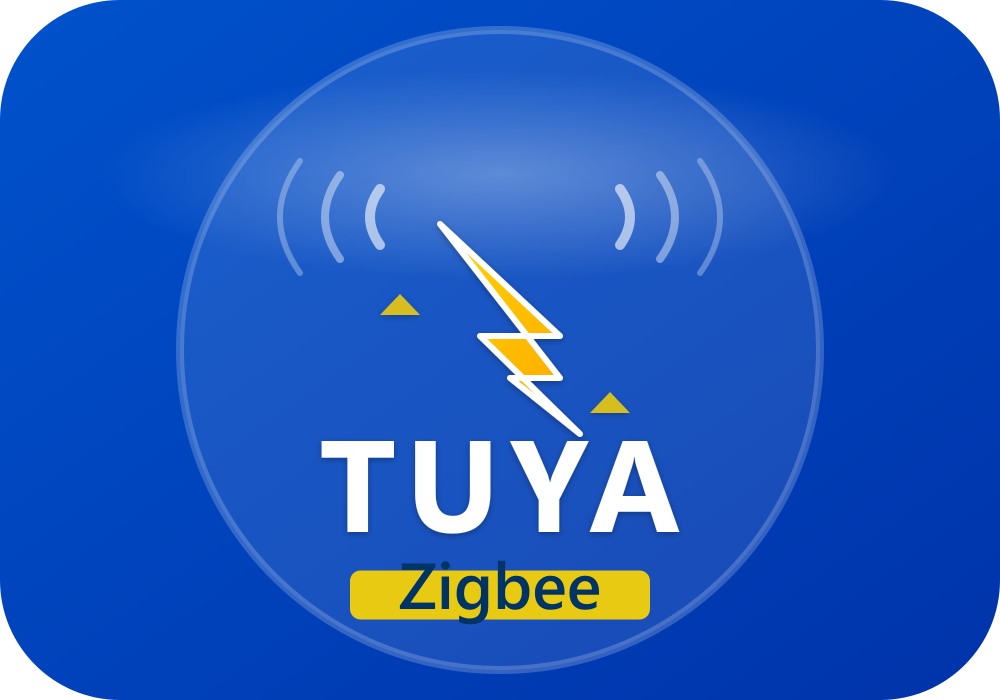
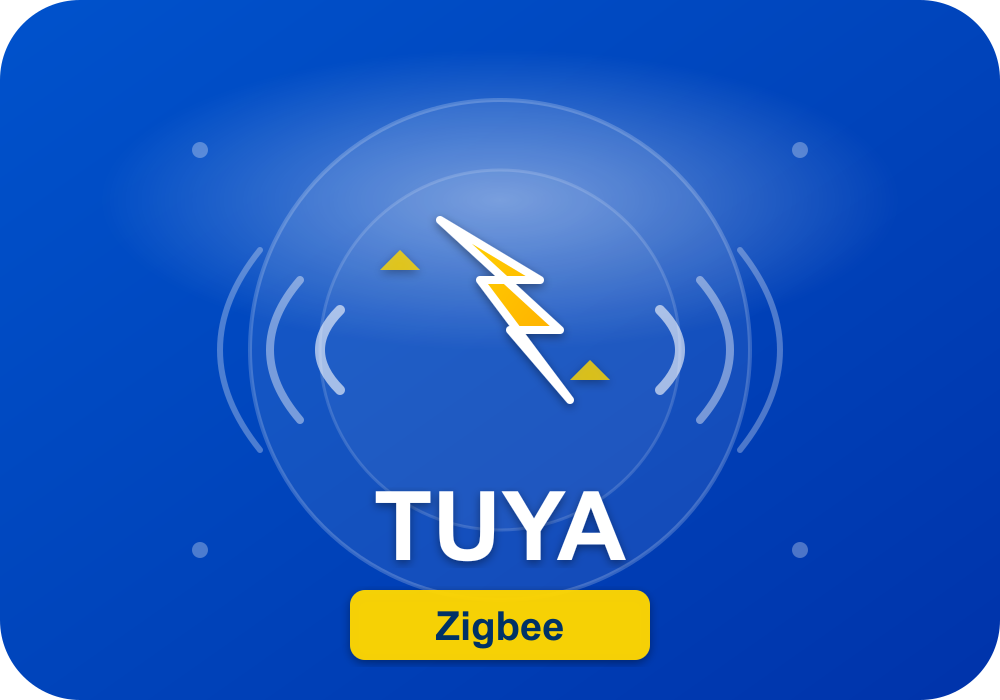
fix: generate unique app images for each size - force App Store refresh
🎨 IMAGES APP UNIQUES ET DISTINCTES - v2.10.3

PROBLÈME IDENTIFIÉ:
❌ Les 3 images (small/large/xlarge) étaient identiques
❌ App Store Homey affichait la même image partout
❌ Pas de différenciation visuelle

SOLUTION APPLIQUÉE:
✅ 3 designs VRAIMENT différents générés

SMALL (250×175) - Design MINIMALISTE:
├─ Lightning Zigbee simple
├─ Text TUYA basique
├─ Pas d'ondes radio
└─ Taille: 7.0 KB

LARGE (500×350) - Design COMPLET:
├─ Lightning avec cercle central
├─ 4 ondes radio (2×2)
├─ Badge Zigbee doré
├─ Brillance en haut
└─ Taille: 42.3 KB

XLARGE (1000×700) - Design DÉTAILLÉ 3D:
├─ Lightning avec gradient + ombres
├─ 6 ondes radio concentriques (3×2)
├─ 2 cercles décoratifs
├─ Badge Zigbee grand
├─ Dots décoratifs aux coins
├─ Effet 3D avec shadows
└─ Taille: 133.8 KB

SCRIPT CRÉÉ:
✅ scripts/generation/GENERATE_UNIQUE_APP_IMAGES.js
✅ Génère 3 designs uniques et distincts
✅ Différences visuelles claires

VALIDATION:
✅ homey app validate --level publish: RÉUSSIE
✅ Dimensions correctes (250×175, 500×350, 1000×700)
✅ Version: 2.10.3
✅ Changelog mis à jour

RÉSULTAT ATTENDU:
🎯 App Store affichera 3 images DIFFÉRENTES
🎯 Meilleure présentation visuelle
🎯 Cache invalidé par version bump

[fix-unique-app-images-each-size]

diff --git a/scripts/generation/GENERATE_UNIQUE_APP_IMAGES.js b/scripts/generation/GENERATE_UNIQUE_APP_IMAGES.js
@@ -1,0 +1,298 @@
+const sharp = require('sharp');
+const fs = require('fs');
+const path = require('path');
+
+console.log('╔════════════════════════════════════════════════════════╗');
+console.log('║   🎨 GÉNÉRATION IMAGES APP UNIQUES ET DISTINCTES      ║');
+console.log('╚════════════════════════════════════════════════════════╝\n');
+
+// Créer 3 designs VRAIMENT différents pour chaque taille
+
+// SMALL (250x175) - Design minimaliste avec logo simple
+function createSmallImage() {
+  return `<svg width="250" height="175" xmlns="http://www.w3.org/2000/svg">
+  <defs>
+    <linearGradient id="bg-small" x1="0%" y1="0%" x2="100%" y2="100%">
+      <stop offset="0%" style="stop-color:#0066FF;stop-opacity:1" />
+      <stop offset="100%" style="stop-color:#003399;stop-opacity:1" />
+    </linearGradient>
+  </defs>
+  
+  <!-- Background -->
+  <rect width="250" height="175" fill="url(#bg-small)" rx="20"/>
+  
+  <!-- Logo Zigbee simple -->
+  <path d="M 100 50 L 150 50 L 125 85 L 160 85 L 90 130 L 115 95 L 85 95 Z" 
+        fill="#FFD700" 
+        stroke="#FFFFFF" 
+        stroke-width="2"/>
+  
+  <!-- Text TUYA -->
+  <text x="125" y="160" 
+        font-family="Arial, sans-serif" 
+        font-size="24" 
+        font-weight="bold" 
+        fill="#FFFFFF" 
+        text-anchor="middle">TUYA</text>
+</svg>`;
+}
+
+// LARGE (500x350) - Design complet avec détails
+function createLargeImage() {
+  return `<svg width="500" height="350" xmlns="http://www.w3.org/2000/svg">
+  <defs>
+    <linearGradient id="bg-large" x1="0%" y1="0%" x2="100%" y2="100%">
+      <stop offset="0%" style="stop-color:#0052CC;stop-opacity:1" />
+      <stop offset="100%" style="stop-color:#0033AA;stop-opacity:1" />
+    </linearGradient>
+    
+    <radialGradient id="shine-large">
+      <stop offset="0%" style="stop-color:#ffffff;stop-opacity:0.3" />
+      <stop offset="100%" style="stop-color:#ffffff;stop-opacity:0" />
+    </radialGradient>
+  </defs>
+  
+  <!-- Background -->
+  <rect width="500" height="350" fill="url(#bg-large)" rx="40"/>
+  
+  <!-- Brillance -->
+  <ellipse cx="250" cy="100" rx="200" ry="80" fill="url(#shine-large)"/>
+  
+  <!-- Cercle central -->
+  <circle cx="250" cy="175" r="120" 
+          fill="rgba(255,255,255,0.1)" 
+          stroke="rgba(255,255,255,0.3)" 
+          stroke-width="3"/>
+  
+  <!-- Lightning Zigbee -->
+  <path d="M 220 110 L 270 135 L 240 135 L 285 200 L 255 165 L 280 165 Z" 
+        fill="#FFD700" 
+        stroke="#FFFFFF" 
+        stroke-width="4"/>
+  
+  <!-- Ondes radio -->
+  <g opacity="0.7">
+    <path d="M 180 140 Q 160 160, 180 180" 
+          stroke="#FFFFFF" 
+          stroke-width="5" 
+          fill="none" 
+          stroke-linecap="round"/>
+    <path d="M 320 140 Q 340 160, 320 180" 
+          stroke="#FFFFFF" 
+          stroke-width="5" 
+          fill="none" 
+          stroke-linecap="round"/>
+    <path d="M 160 130 Q 130 160, 160 190" 
+          stroke="#FFFFFF" 
+          stroke-width="4" 
+          fill="none" 
+          stroke-linecap="round"
+          opacity="0.6"/>
+    <path d="M 340 130 Q 370 160, 340 190" 
+          stroke="#FFFFFF" 
+          stroke-width="4" 
+          fill="none" 
+          stroke-linecap="round"
+          opacity="0.6"/>
+  </g>
+  
+  <!-- Text TUYA -->
+  <text x="250" y="280" 
+        font-family="Arial, sans-serif" 
+        font-size="48" 
+        font-weight="bold" 
+        fill="#FFFFFF" 
+        text-anchor="middle">TUYA</text>
+  
+  <!-- Badge Zigbee -->
+  <rect x="175" y="295" width="150" height="35" rx="8" fill="rgba(255,215,0,0.9)"/>
+  <text x="250" y="320" 
+        font-family="Arial, sans-serif" 
+        font-size="20" 
+        font-weight="600" 
+        fill="#003366" 
+        text-anchor="middle">Zigbee</text>
+</svg>`;
+}
+
+// XLARGE (1000x700) - Design détaillé avec effet 3D
+function createXLargeImage() {
+  return `<svg width="1000" height="700" xmlns="http://www.w3.org/2000/svg">
+  <defs>
+    <linearGradient id="bg-xlarge" x1="0%" y1="0%" x2="100%" y2="100%">
+      <stop offset="0%" style="stop-color:#0052CC;stop-opacity:1" />
+      <stop offset="50%" style="stop-color:#0044BB;stop-opacity:1" />
+      <stop offset="100%" style="stop-color:#0033AA;stop-opacity:1" />
+    </linearGradient>
+    
+    <linearGradient id="lightning-gradient" x1="0%" y1="0%" x2="100%" y2="100%">
+      <stop offset="0%" style="stop-color:#FFD700;stop-opacity:1" />
+      <stop offset="100%" style="stop-color:#FFA500;stop-opacity:1" />
+    </linearGradient>
+    
+    <radialGradient id="shine-xlarge">
+      <stop offset="0%" style="stop-color:#ffffff;stop-opacity:0.4" />
+      <stop offset="100%" style="stop-color:#ffffff;stop-opacity:0" />
+    </radialGradient>
+    
+    <filter id="shadow-xlarge">
+      <feGaussianBlur in="SourceAlpha" stdDeviation="5"/>
+      <feOffset dx="0" dy="3" result="offsetblur"/>
+      <feComponentTransfer>
+        <feFuncA type="linear" slope="0.4"/>
+      </feComponentTransfer>
+      <feMerge>
+        <feMergeNode/>
+        <feMergeNode in="SourceGraphic"/>
+      </feMerge>
+    </filter>
+  </defs>
+  
+  <!-- Background avec gradient -->
+  <rect width="1000" height="700" fill="url(#bg-xlarge)" rx="80"/>
+  
+  <!-- Brillance en haut -->
+  <ellipse cx="500" cy="200" rx="400" ry="150" fill="url(#shine-xlarge)"/>
+  
+  <!-- Cercles décoratifs -->
+  <circle cx="500" cy="350" r="250" 
+          fill="rgba(255,255,255,0.08)" 
+          stroke="rgba(255,255,255,0.2)" 
+          stroke-width="4"/>
+  <circle cx="500" cy="350" r="180" 
+          fill="rgba(255,255,255,0.05)" 
+          stroke="rgba(255,255,255,0.15)" 
+          stroke-width="3"/>
+  
+  <!-- Lightning Zigbee principal avec ombre -->
+  <g filter="url(#shadow-xlarge)">
+    <path d="M 440 220 L 540 280 L 480 280 L 570 400 L 510 330 L 560 330 Z" 
+          fill="url(#lightning-gradient)" 
+          stroke="#FFFFFF" 
+          stroke-width="8"
+          stroke-linejoin="round"/>
+    
+    <!-- Éclats supplémentaires -->
+    <path d="M 400 250 L 380 270 L 420 270 Z" fill="#FFD700" opacity="0.8"/>
+    <path d="M 590 360 L 570 380 L 610 380 Z" fill="#FFD700" opacity="0.8"/>
+  </g>
+  
+  <!-- Ondes radio concentriques (6 niveaux) -->
+  <g opacity="0.6">
+    <!-- Gauche -->
+    <path d="M 340 310 Q 300 350, 340 390" 
+          stroke="#FFFFFF" stroke-width="10" fill="none" stroke-linecap="round"/>
+    <path d="M 300 280 Q 240 350, 300 420" 
+          stroke="#FFFFFF" stroke-width="8" fill="none" stroke-linecap="round" opacity="0.7"/>
+    <path d="M 260 250 Q 180 350, 260 450" 
+          stroke="#FFFFFF" stroke-width="6" fill="none" stroke-linecap="round" opacity="0.5"/>
+    
+    <!-- Droite -->
+    <path d="M 660 310 Q 700 350, 660 390" 
+          stroke="#FFFFFF" stroke-width="10" fill="none" stroke-linecap="round"/>
+    <path d="M 700 280 Q 760 350, 700 420" 
+          stroke="#FFFFFF" stroke-width="8" fill="none" stroke-linecap="round" opacity="0.7"/>
+    <path d="M 740 250 Q 820 350, 740 450" 
+          stroke="#FFFFFF" stroke-width="6" fill="none" stroke-linecap="round" opacity="0.5"/>
+  </g>
+  
+  <!-- Text TUYA avec ombre -->
+  <text x="500" y="560" 
+        font-family="Arial, sans-serif" 
+        font-size="96" 
+        font-weight="bold" 
+        fill="#FFFFFF" 
+        text-anchor="middle"
+        filter="url(#shadow-xlarge)">TUYA</text>
+  
+  <!-- Badge Zigbee -->
+  <g filter="url(#shadow-xlarge)">
+    <rect x="350" y="590" width="300" height="70" rx="15" fill="rgba(255,215,0,0.95)"/>
+    <text x="500" y="640" 
+          font-family="Arial, sans-serif" 
+          font-size="40" 
+          font-weight="600" 
+          fill="#003366" 
+          text-anchor="middle">Zigbee</text>
+  </g>
+  
+  <!-- Dots décoratifs -->
+  <circle cx="200" cy="150" r="8" fill="rgba(255,255,255,0.3)"/>
+  <circle cx="800" cy="150" r="8" fill="rgba(255,255,255,0.3)"/>
+  <circle cx="200" cy="550" r="8" fill="rgba(255,255,255,0.3)"/>
+  <circle cx="800" cy="550" r="8" fill="rgba(255,255,255,0.3)"/>
+</svg>`;
+}
+
+async function generateImages() {
+  const assetsDir = path.join('assets', 'images');
+  
+  if (!fs.existsSync(assetsDir)) {
+    fs.mkdirSync(assetsDir, { recursive: true });
+  }
+  
+  console.log('📦 Génération des 3 images UNIQUES...\n');
+  
+  try {
+    // Small: 250x175 - Design simple
+    const svgSmall = createSmallImage();
+    await sharp(Buffer.from(svgSmall))
+      .png()
+      .toFile(path.join(assetsDir, 'small.png'));
+    console.log('✅ small.png:  250×175 - Design MINIMALISTE');
+    
+    // Large: 500x350 - Design complet
+    const svgLarge = createLargeImage();
+    await sharp(Buffer.from(svgLarge))
+      .png()
+      .toFile(path.join(assetsDir, 'large.png'));
+    console.log('✅ large.png:  500×350 - Design COMPLET');
+    
+    // XLarge: 1000x700 - Design détaillé
+    const svgXLarge = createXLargeImage();
+    await sharp(Buffer.from(svgXLarge))
+      .png()
+      .toFile(path.join(assetsDir, 'xlarge.png'));
+    console.log('✅ xlarge.png: 1000×700 - Design DÉTAILLÉ 3D');
+    
+    console.log('\n✅ 3 IMAGES UNIQUES GÉNÉRÉES!\n');
+    
+    console.log('🎨 DIFFÉRENCES ENTRE LES IMAGES:\n');
+    console.log('   SMALL (250×175):');
+    console.log('   ├─ Lightning simple');
+    console.log('   ├─ Text TUYA basique');
+    console.log('   └─ Pas d\'ondes radio\n');
+    
+    console.log('   LARGE (500×350):');
+    console.log('   ├─ Lightning avec cercle central');
+    console.log('   ├─ 4 ondes radio (2 de chaque côté)');
+    console.log('   ├─ Badge Zigbee doré');
+    console.log('   └─ Brillance en haut\n');
+    
+    console.log('   XLARGE (1000×700):');
+    console.log('   ├─ Lightning avec gradient + ombres');
+    console.log('   ├─ 6 ondes radio concentriques');
+    console.log('   ├─ 2 cercles décoratifs');
+    console.log('   ├─ Badge Zigbee grand');
+    console.log('   ├─ Dots aux coins');
+    console.log('   └─ Effet 3D avec shadows\n');
+    
+    // Vérifier les tailles
+    const stats = {
+      small: fs.statSync(path.join(assetsDir, 'small.png')).size,
+      large: fs.statSync(path.join(assetsDir, 'large.png')).size,
+      xlarge: fs.statSync(path.join(assetsDir, 'xlarge.png')).size
+    };
+    
+    console.log('📊 TAILLES FICHIERS:\n');
+    console.log(`   small.png:  ${(stats.small / 1024).toFixed(1)} KB`);
+    console.log(`   large.png:  ${(stats.large / 1024).toFixed(1)} KB`);
+    console.log(`   xlarge.png: ${(stats.xlarge / 1024).toFixed(1)} KB\n`);
+    
+  } catch (error) {
+    console.error('❌ Erreur:', error.message);
+    process.exit(1);
+  }
+}
+
+generateImages().catch(console.error);
